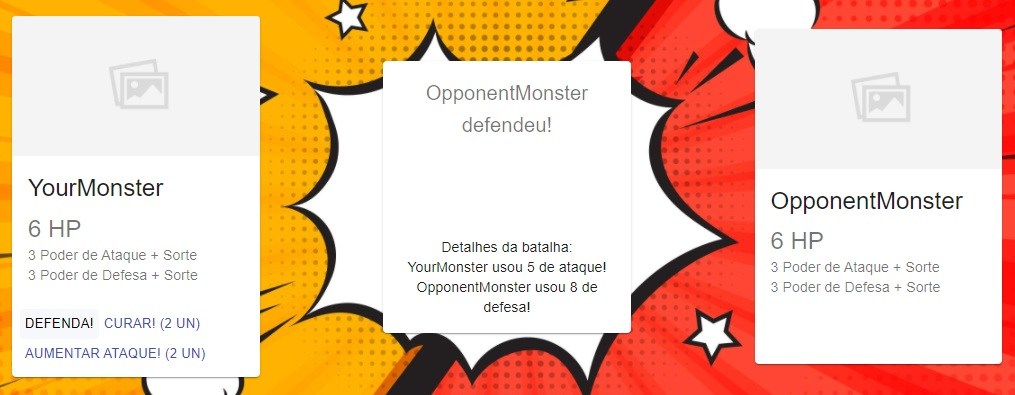
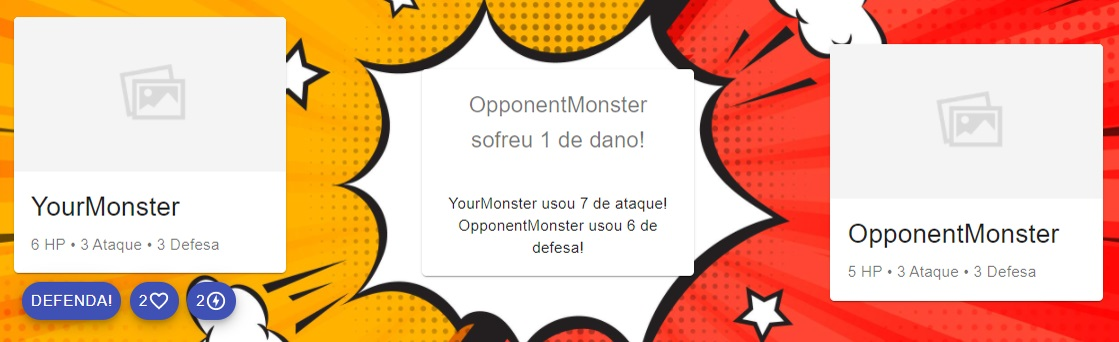
Modo história

diff --git a/src/pages/HowTo.tsx b/src/pages/HowTo.tsx
@@ -50,21 +50,17 @@ export default function HowTo() {
                         </AccordionSummary>
                         <AccordionDetails>
                             <Typography className={classes.text}>
-                                React Battle Monster é um jogo escrito em ReactJS de batalhas entre monstros por turnos. <br />
-                                {/* O jogo possui um modo história com um número limitado de batalhas. São ao todo três finais possíveis. */}
+                                React Battle Monster é um jogo de batalhas por turnos escrito em ReactJS. <br /><br />
+                                Possui um modo história e um modo batalha, ambos com um número limitado de batalhas. <br />
+                                O modo história possui três finais possíveis (bom, ruim e secreto).
                             </Typography>
-                            {/* <Typography className={classes.text}>
-                                <li>Final ruim: Derrota.</li>
-                                <li>Final bom: Conseguiu todas as vitórias.</li>
-                                <li>Final secreto.</li>
-                            </Typography> */}
                         </AccordionDetails>
                     </Accordion>
-                    <Accordion expanded={expandedAccordion === 'boxes'} onChange={openAccordion('boxes')}>
+                    <Accordion expanded={expandedAccordion === 'battles'} onChange={openAccordion('battles')}>
                         <AccordionSummary
                             expandIcon={<ExpandMoreIcon />}
                         >
-                            <Typography><strong>Batalhas e Turnos</strong></Typography>
+                            <Typography><strong>Batalhas, Turnos e Caixas de exibição</strong></Typography>
                         </AccordionSummary>
                         <AccordionDetails>
                             <Typography className={classes.text}>
@@ -74,43 +70,34 @@ export default function HowTo() {
                                 utilizou de poder de ataque e defesa, se algum item foi utilizado e quem venceu).</li>
                                 <li>A terceira exibe informações do seu adversário.</li> <br />
                                 <Grid container spacing={2} justify="center">
-                                    <img src="/img/howto/boxes.jpg" alt="Boxes" width="80%"/> 
-                                </Grid>
-                            </Typography>
-                        </AccordionDetails>
-                    </Accordion>
-                    <Accordion expanded={expandedAccordion === 'battle'} onChange={openAccordion('battle')}>
-                        <AccordionSummary
-                            expandIcon={<ExpandMoreIcon />}
-                        >
-                            <Typography><strong>Caixas de exibição e Informações</strong></Typography>
-                        </AccordionSummary>
-                        <AccordionDetails>
-                            <Typography className={classes.text}>
-                                Você sempre estará no comando dos turnos, efetuando uma ordem de ataque ou de defesa. <br /><br />
-                                <Grid container spacing={2} justify="center">
-                                    <img src="/img/howto/attack-defense.jpg" alt="AttackDefense" width="50%"/> 
+                                    <img src="/img/howto/boxes.jpg" alt="Boxes"/> 
                                 </Grid>
                                 <br />
-                                Por turno, sempre haverá um monstro atacando e um defendendo. <br />
+                                Você sempre estará no comando dos turnos, efetuando uma ordem de ataque ou de defesa. <br />
+                                Por turno, sempre haverá um monstro atacando e um defendendo. <br /><br />
+                                <Grid container spacing={2} justify="center">
+                                    <img src="/img/howto/attack-defense.jpg" alt="AttackDefense" /> 
+                                </Grid>
+                                <br />
                                 Seu personagem e o seu adversário possuem três características básicas. <br />
                                 <li><strong>HP:</strong> Vida total do personagem.</li>
                                 <li><strong>Poder de Ataque + Sorte:</strong> Poder de ataque fixo do personagem + um número (entre 1 e 6)
                                 aleatório de sorte.</li>
                                 <li><strong>Poder de Defesa + Sorte:</strong> Poder de defesa fixo do personagem + um número (entre 1 e 6) aleatório de sorte.</li> <br />
                                 <Grid container spacing={2} justify="center">
-                                    <img src="/img/howto/attributes.jpg" alt="Attributes" width="30%"/> 
+                                    <img src="/img/howto/attributes.jpg" alt="Attributes"/> 
                                 </Grid>
                                 <br />
                                 A "<strong>sorte</strong>" é determinada em cada turno para cada personagem na ação que ele está realizando. Exemplo:
                                 <li>Seu personagem está atacando e possui 3 de poder de ataque. Neste turno sua sorte foi 5. Total: 8 de ataque.</li>
                                 <li>Seu oponente está defendendo e possui 3 de poder de defesa. Neste turno sua sorte foi 2. Total: 5 de defesa.</li>
                                 8 de ataque - 5 de defesa = 3 de dano. O defensor perde 3 de HP.
-                                Se o defensor tiver uma defesa igual ou maior ao ataque do oponente, então não haverá danos em seu HP. <br />
-                                A mecânica se repete e vence quem zerar totalmente o HP do adversário primeiro. <br /><br />
+                                Se o defensor tiver uma defesa igual ou maior ao ataque do oponente, então não haverá danos em seu HP. <br /><br />
                                 <Grid container spacing={2} justify="center">
-                                    <img src="/img/howto/battle-status.jpg" alt="BattleStatus" width="30%"/> 
+                                    <img src="/img/howto/battle-status.jpg" alt="BattleStatus" /> 
                                 </Grid>
+                                <br />
+                                A mecânica se repete e vence quem zerar totalmente o HP do adversário primeiro. <br />
                             </Typography>
                         </AccordionDetails>
                     </Accordion>
@@ -126,7 +113,7 @@ export default function HowTo() {
                                 <li>Duas unidades de Cura (quando utilizado, seu personagem fica com 6 de HP).</li>
                                 <li>Duas unidades de Aumentar Ataque (quando utilizado, seu personagem recebe + 3 de ataque).</li> <br />
                                 <Grid container spacing={2} justify="center">
-                                    <img src="/img/howto/itens.jpg" alt="Itens" width="30%"/> 
+                                    <img src="/img/howto/itens.jpg" alt="Itens"/> 
                                 </Grid>
                                 <br />
                                 Você pode usar esses itens livremente a qualquer momento do jogo. <br />

diff --git a/src/pages/Match.tsx b/src/pages/Match.tsx
@@ -1,12 +1,10 @@
 import { useState } from "react";
-import { useHistory } from "react-router-dom";
-
+import { useHistory, useLocation } from "react-router-dom";
 import Cookies from 'js-cookie';
 
 import { Grid, Card, CardActionArea, CardContent, Typography } from '@material-ui/core';
 
 import Fighter from "../components/Fighter";
-
 import BackUrl from '../utils/BackUrl';
 
 import { yourMonsterStorage, opponentMonsterStorage } from "../storage/Monster";
@@ -25,16 +23,17 @@ interface Monster {
 
 export default function Match() {
     const history = useHistory();
+    const locationUrl = useLocation();
     const [turn, setTurn] = useState(true);
     const [battleSituation, setBattleSituation] = useState(String);
     const [battleStatus, setBattleStatus] = useState(String);
-    const [yourMonsterNumber, setYourMonsterNumber] = useState(
-        window.location.href.indexOf('story-battle') > -1
+    const yourMonsterNumber = 
+        locationUrl.pathname === '/story-battle'
         ? Number(Cookies.get('yourMonsterNumber')) // Modo história
         : 0 // Modo batalha
-    );
+    ;
     const [opponentMonsterNumber, setOpponentMonsterNumber] = useState(
-        window.location.href.indexOf('story-battle') > -1
+        locationUrl.pathname === '/story-battle'
         ? Number(Cookies.get('opponentMonsterNumber')) // Modo história
         : 0 // Modo batalha
     );
@@ -42,12 +41,12 @@ export default function Match() {
         name: yourMonsterStorage[yourMonsterNumber]['name'], 
         attack: 3, 
         attackChance: 0, 
-        defense: 3, 
+        defense: 3,
         defenseChance: 0, 
         life: yourMonsterStorage[yourMonsterNumber]['life'], 
         monsterImg: yourMonsterStorage[yourMonsterNumber]['monsterImg'],
-        remedy: 2,
-        maximumPower: 2
+        remedy: locationUrl.pathname === '/story-battle' ? Number(Cookies.get('remedy')) : 2,
+        maximumPower: locationUrl.pathname === '/story-battle' ? Number(Cookies.get('maximumPower')) : 2
     });
     const [opponentMonster] = useState<Monster>({
         name: opponentMonsterStorage[opponentMonsterNumber]['name'], 
@@ -92,15 +91,23 @@ export default function Match() {
     }
 
     function useItem(item: string) {
-        if (item === 'remedy' && yourMonster.remedy !== 0) {
+        if (item === 'remedy' && (yourMonster.remedy! > 0 || Number(Cookies.get('remedy')) > 0)) {
+            if (locationUrl.pathname === '/story-battle') {
+                let remedy = Number(Cookies.get('remedy')) - 1;
+                Cookies.set('remedy', String(remedy));
+            } 
+
+            yourMonster.remedy! --;
             yourMonster.life = 6;
-            yourMonster.remedy! --; 
-
             setBattleSituation(yourMonster.name + ' restaurou a vida!');
-        }else if(item === 'maximumPower' && yourMonster.maximumPower !== 0){
-            yourMonster.attack += 3;
+        }else if(item === 'maximumPower' && (yourMonster.maximumPower! > 0 || Number(Cookies.get('maximumPower')) > 0)){
+            if (locationUrl.pathname === '/story-battle') {
+                let maximumPower = Number(Cookies.get('maximumPower')) - 1;
+                Cookies.set('maximumPower', String(maximumPower));
+            }
+            
             yourMonster.maximumPower! --;
-
+            yourMonster.attack += 3;
             setBattleSituation(yourMonster.name + ' ganhou + 3 de ataque!');
         }else{
             setBattleSituation('Você não possui mais esse item.');
@@ -109,22 +116,20 @@ export default function Match() {
         setTurn(false); // Após uso do item, seu personagem fica na defensiva
     }
 
-    console.log(yourMonsterNumber)
-
     /** @todo Melhorar essa zona */
     function prepareNextBattle(attackerName: string) {
-        if (window.location.href.indexOf('story-battle') > -1) { // Modo história
+        if (locationUrl.pathname === '/story-battle') { // Modo história
             if (opponentMonster.life <= 0 && opponentMonsterNumber !== 4) {
                 let nextStory = Number(Cookies.get('storyNumber')) + 1;
                 Cookies.set('storyNumber', String(nextStory));
-            }else if(yourMonster.life <= 0 && opponentMonsterNumber === 4) {
+            }else if(yourMonster.life <= 0 && yourMonsterNumber === 0 && opponentMonsterNumber === 4) {
                 Cookies.set('storyNumber', String(30)); // Última chance
             }else if(yourMonster.life <= 0) {
                 Cookies.set('storyNumber', String(36)); // Fim de jogo
-            }else if(opponentMonster.life <= 0 && yourMonsterNumber === 0){
-                Cookies.set('storyNumber', String(59)); // Final secreto
-            }else{ 
+            }else if(opponentMonster.life <= 0 && yourMonsterNumber === 1){
                 Cookies.set('storyNumber', String(40)); // Final bom
+            }else{ 
+                Cookies.set('storyNumber', String(59)); // Final secreto
             }
 
             history.push('/story-mode');

diff --git a/src/pages/Landing.tsx b/src/pages/Landing.tsx
@@ -1,10 +1,24 @@
 import { Link } from 'react-router-dom';
+import { useHistory } from "react-router-dom";
+import Cookies from 'js-cookie';
 
 import { Paper, Grid, Button } from '@material-ui/core';
 
 import GitHubIcon from '@material-ui/icons/GitHub';
 
 export default function Landing() {
+    const history = useHistory();
+
+    function newStoryMode() {
+        Cookies.remove('opponentMonsterNumber');
+        Cookies.remove('yourMonsterNumber');
+        Cookies.remove('storyNumber');
+        Cookies.set('remedy', String(2));
+        Cookies.set('maximumPower', String(2));
+        history.push('/story-mode');
+        return;
+    }
+
     return (
         <div
             style={{
@@ -29,21 +43,23 @@ export default function Landing() {
             >
                 <Paper className="paper">
                     <Grid container spacing={2} justify="center">
-                        <Link to="/story-mode">
-                            <Button
-                                size="large" 
-                                color="primary" 
-                            >
-                                Novo Modo História
-                            </Button>
-                        </Link>
+                        <Button
+                            size="large" 
+                            color="primary" 
+                            onClick={newStoryMode}
+                        >
+                            Novo Modo História
+                        </Button>
                     </Grid>
                     <Grid container spacing={2} justify="center">
                         <Link to="/story-mode">
                             <Button
                                 size="large" 
                                 color="primary" 
-                                disabled
+                                disabled={
+                                    // Havendo cookie, há opção de continuar
+                                    String(Cookies.get('storyNumber')) !== 'undefined' ? false : true
+                                } 
                             >
                                 Continuar História
                             </Button>

diff --git a/src/pages/Story.tsx b/src/pages/Story.tsx
@@ -24,7 +24,7 @@ export default function Story() {
             setText(text + storyStorage[storyNumber]['text'].charAt(numberLetter)); // Adiciona a próxima letra ao texto
             setTimeout(() => {
                 setNumberLetter(numberLetter + 1);
-            }, 1)
+            }, 15)
         }
     }, [numberLetter]);
 
@@ -33,6 +33,7 @@ export default function Story() {
         // Fim do jogo
         if(Boolean(storyStorage[storyNumber]['endingGame']) === true){
             Cookies.remove('opponentMonsterNumber');
+            Cookies.remove('yourMonsterNumber');
             Cookies.remove('storyNumber');
             history.push('/');
             return;

diff --git a/src/storage/Story.tsx b/src/storage/Story.tsx
@@ -77,7 +77,7 @@ const Story = [
     },{
         text: '"É o fim..."'
     },{
-        text: '[Na direção aposta, algo voa rapidamente até eles e defende o ataque!]'
+        text: '[Na direção oposta, algo voa rapidamente até eles e defende o ataque!]'
     },{
         text: '[Uma grande explosão acontece! E uma nova batalha se inicia!]',
         callBattle: 4
